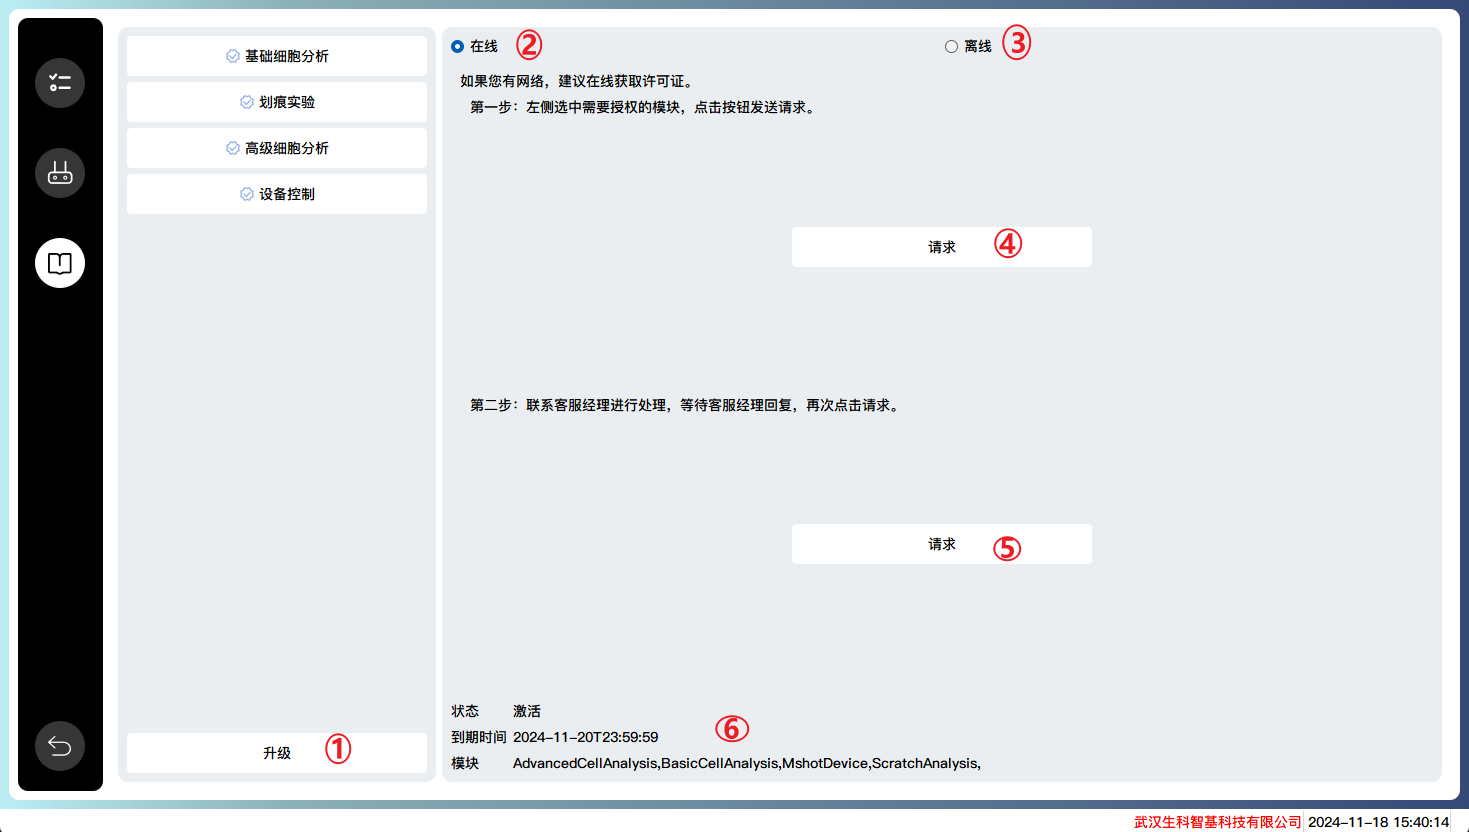
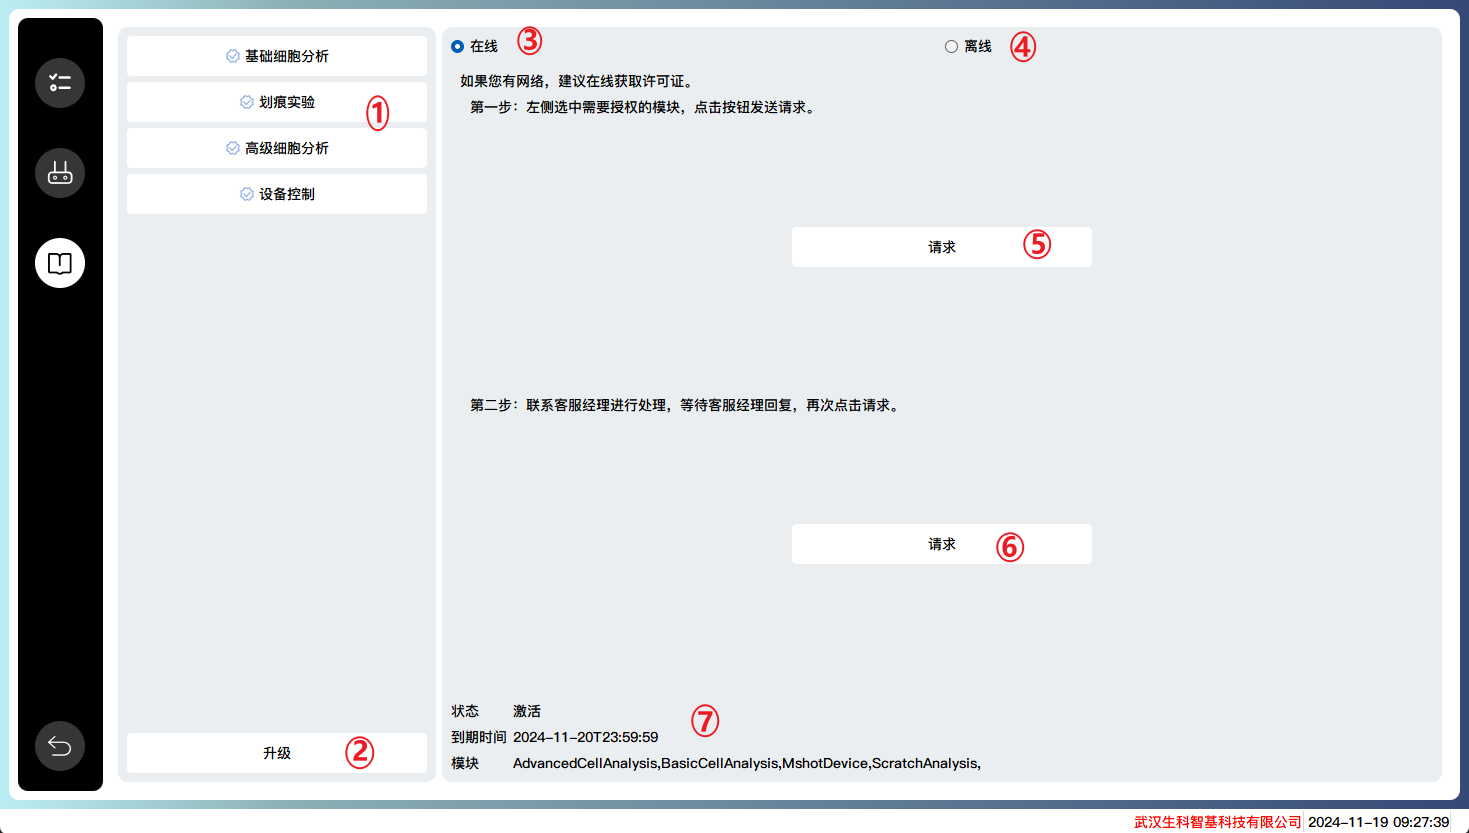
feature: add content for setting page

diff --git a/source/user_guide/function.md b/source/user_guide/function.md
@@ -107,8 +107,8 @@ Select an analysis module
 3. Eccentricity: Eccentricity screening threshold. The smaller the value, the greater the filtering effect on long or irregular objects, and vice versa.
 4. Minimum area: The minimum area of the retained mask. The smaller the value, the easier it is to retain small areas of cells (and also more likely to introduce noise), and vice versa.
 5. Maximum Void: The maximum area of a closed void. The larger the value, the larger the closed cavity, and vice versa.
-6. 
-7. 
+6. Similar to 2.
+7. Domain block size: The dynamic segmentation block size of the domain. The smaller the neighborhood block, the easier it is to be sensitive to small objects and recognize local small objects.
 8. Similar to 3.
 9. Similar to 4.
 10. Similar to 5.

diff --git a/source/user_guide/setting.md b/source/user_guide/setting.md
@@ -17,3 +17,13 @@ Configure the functions according to the specific microscope equipment model.
 Module introduction and module authorization.
 
 ![](../_static/images/setting_2.png)
+
+1. Module Introduction
+2. Module upgrade page
+3. Online application method
+4. Offline application method
+5. Select the left module and click the button to send the application request
+6. After waiting for a reply, click on the request again
+7. Display authorization information
+
+For more detailed information, please refer to the installation and activation section.

diff --git a/source/user_guide/support.md b/source/user_guide/support.md
@@ -1,3 +1,6 @@
 # Hardware support
+This page mainly introduces the microscope hardware devices supported by the software.
 
 ## Cell Analyzer
+
+![](../_static/images/device.png)

diff --git a/source/user_guide/setup.md b/source/user_guide/setup.md
@@ -1,2 +1,10 @@
 # Installation & Activation
 
+## Installation
+
+
+## Module Activation
+
+### Online Activation
+
+### Offline Activation
